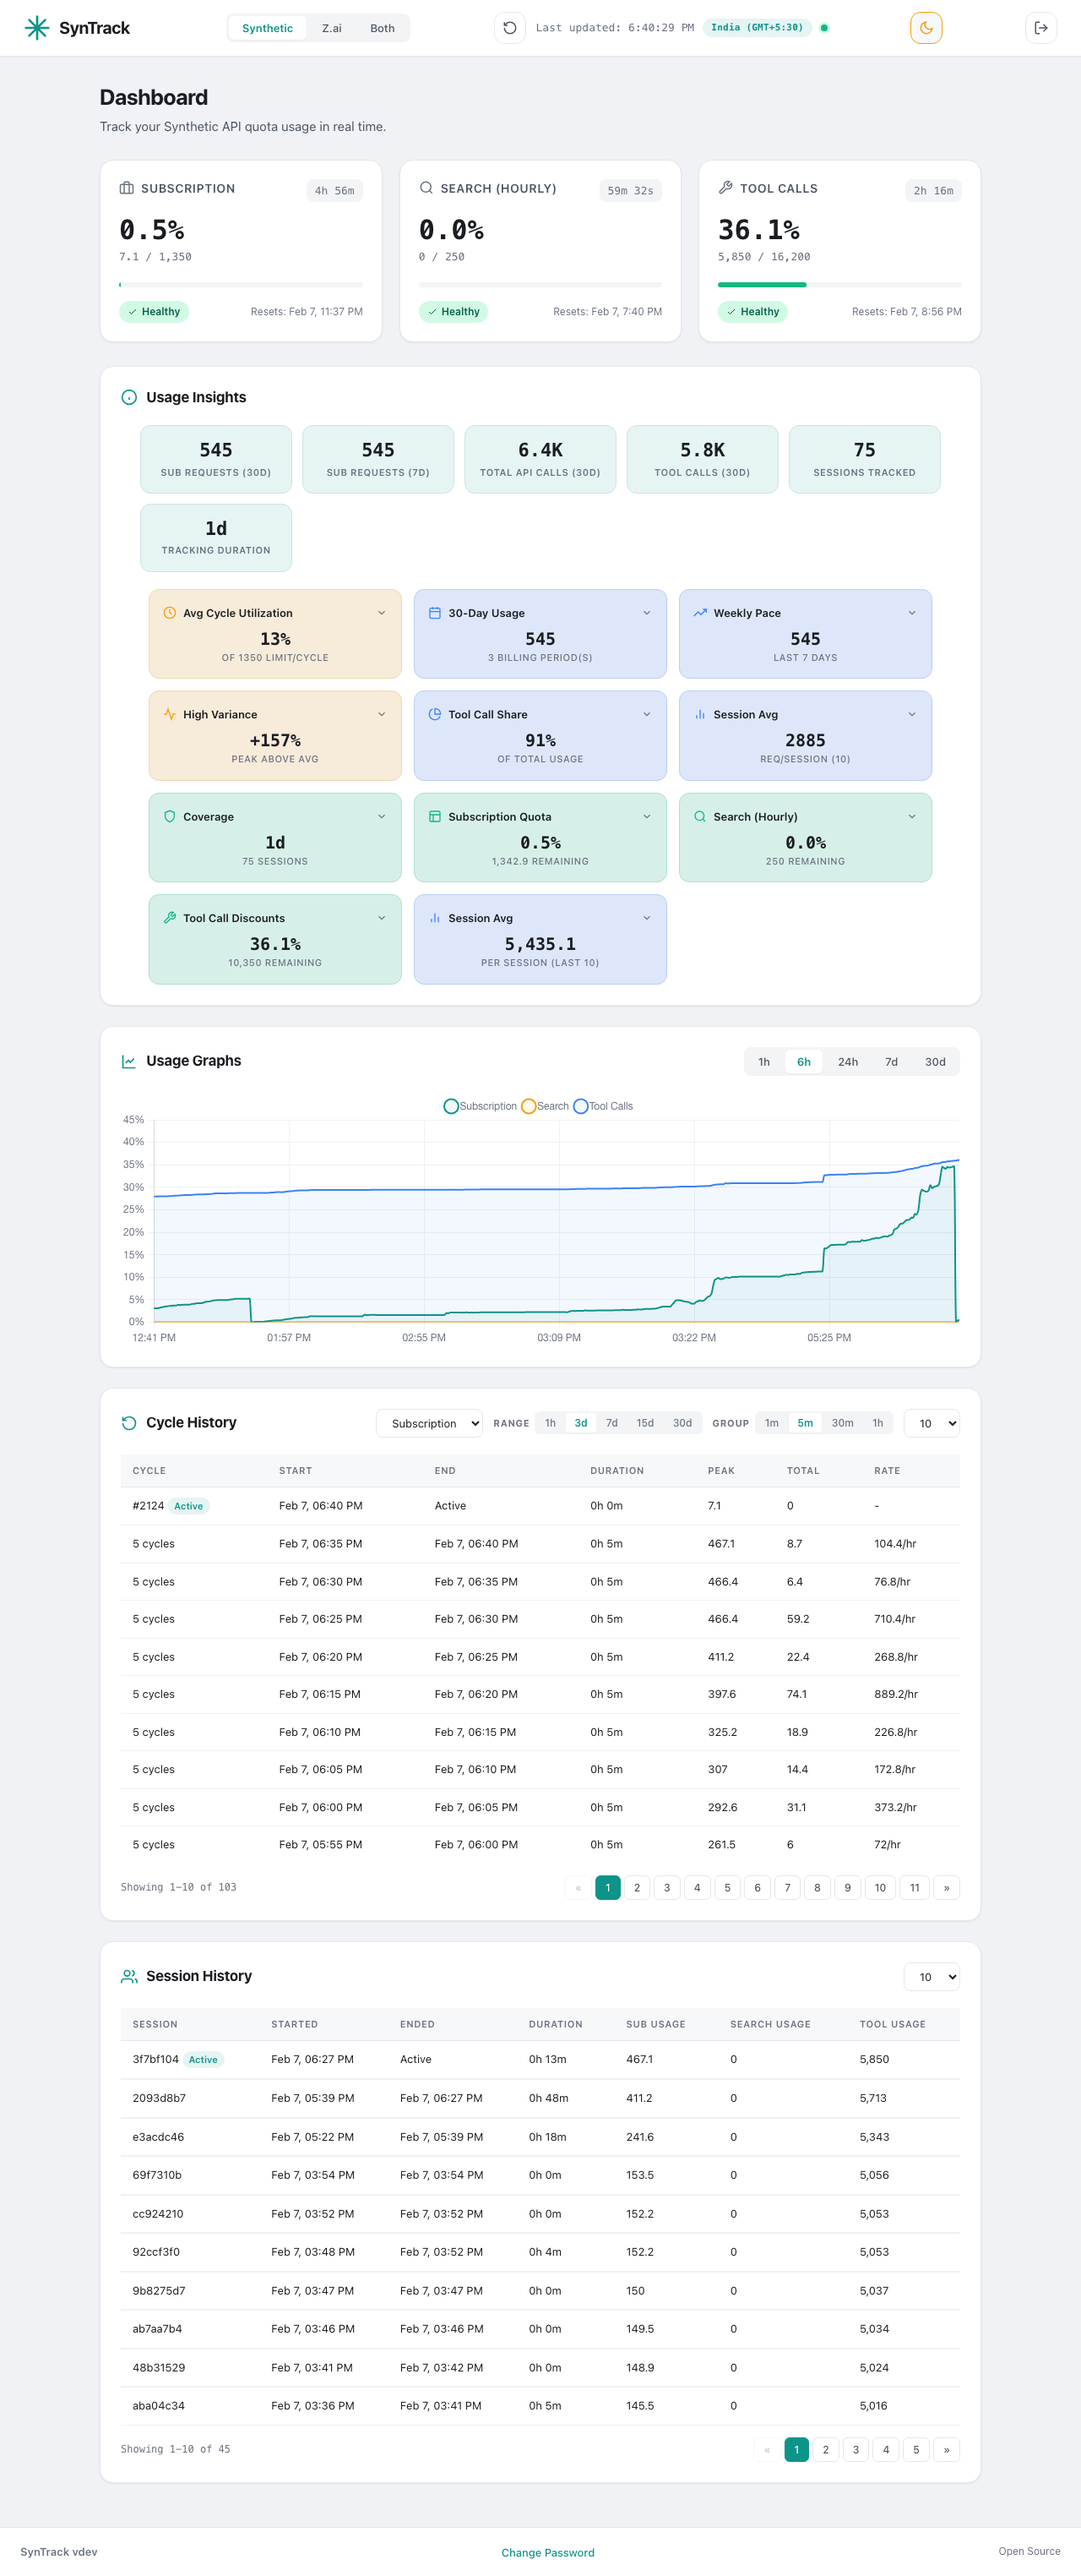
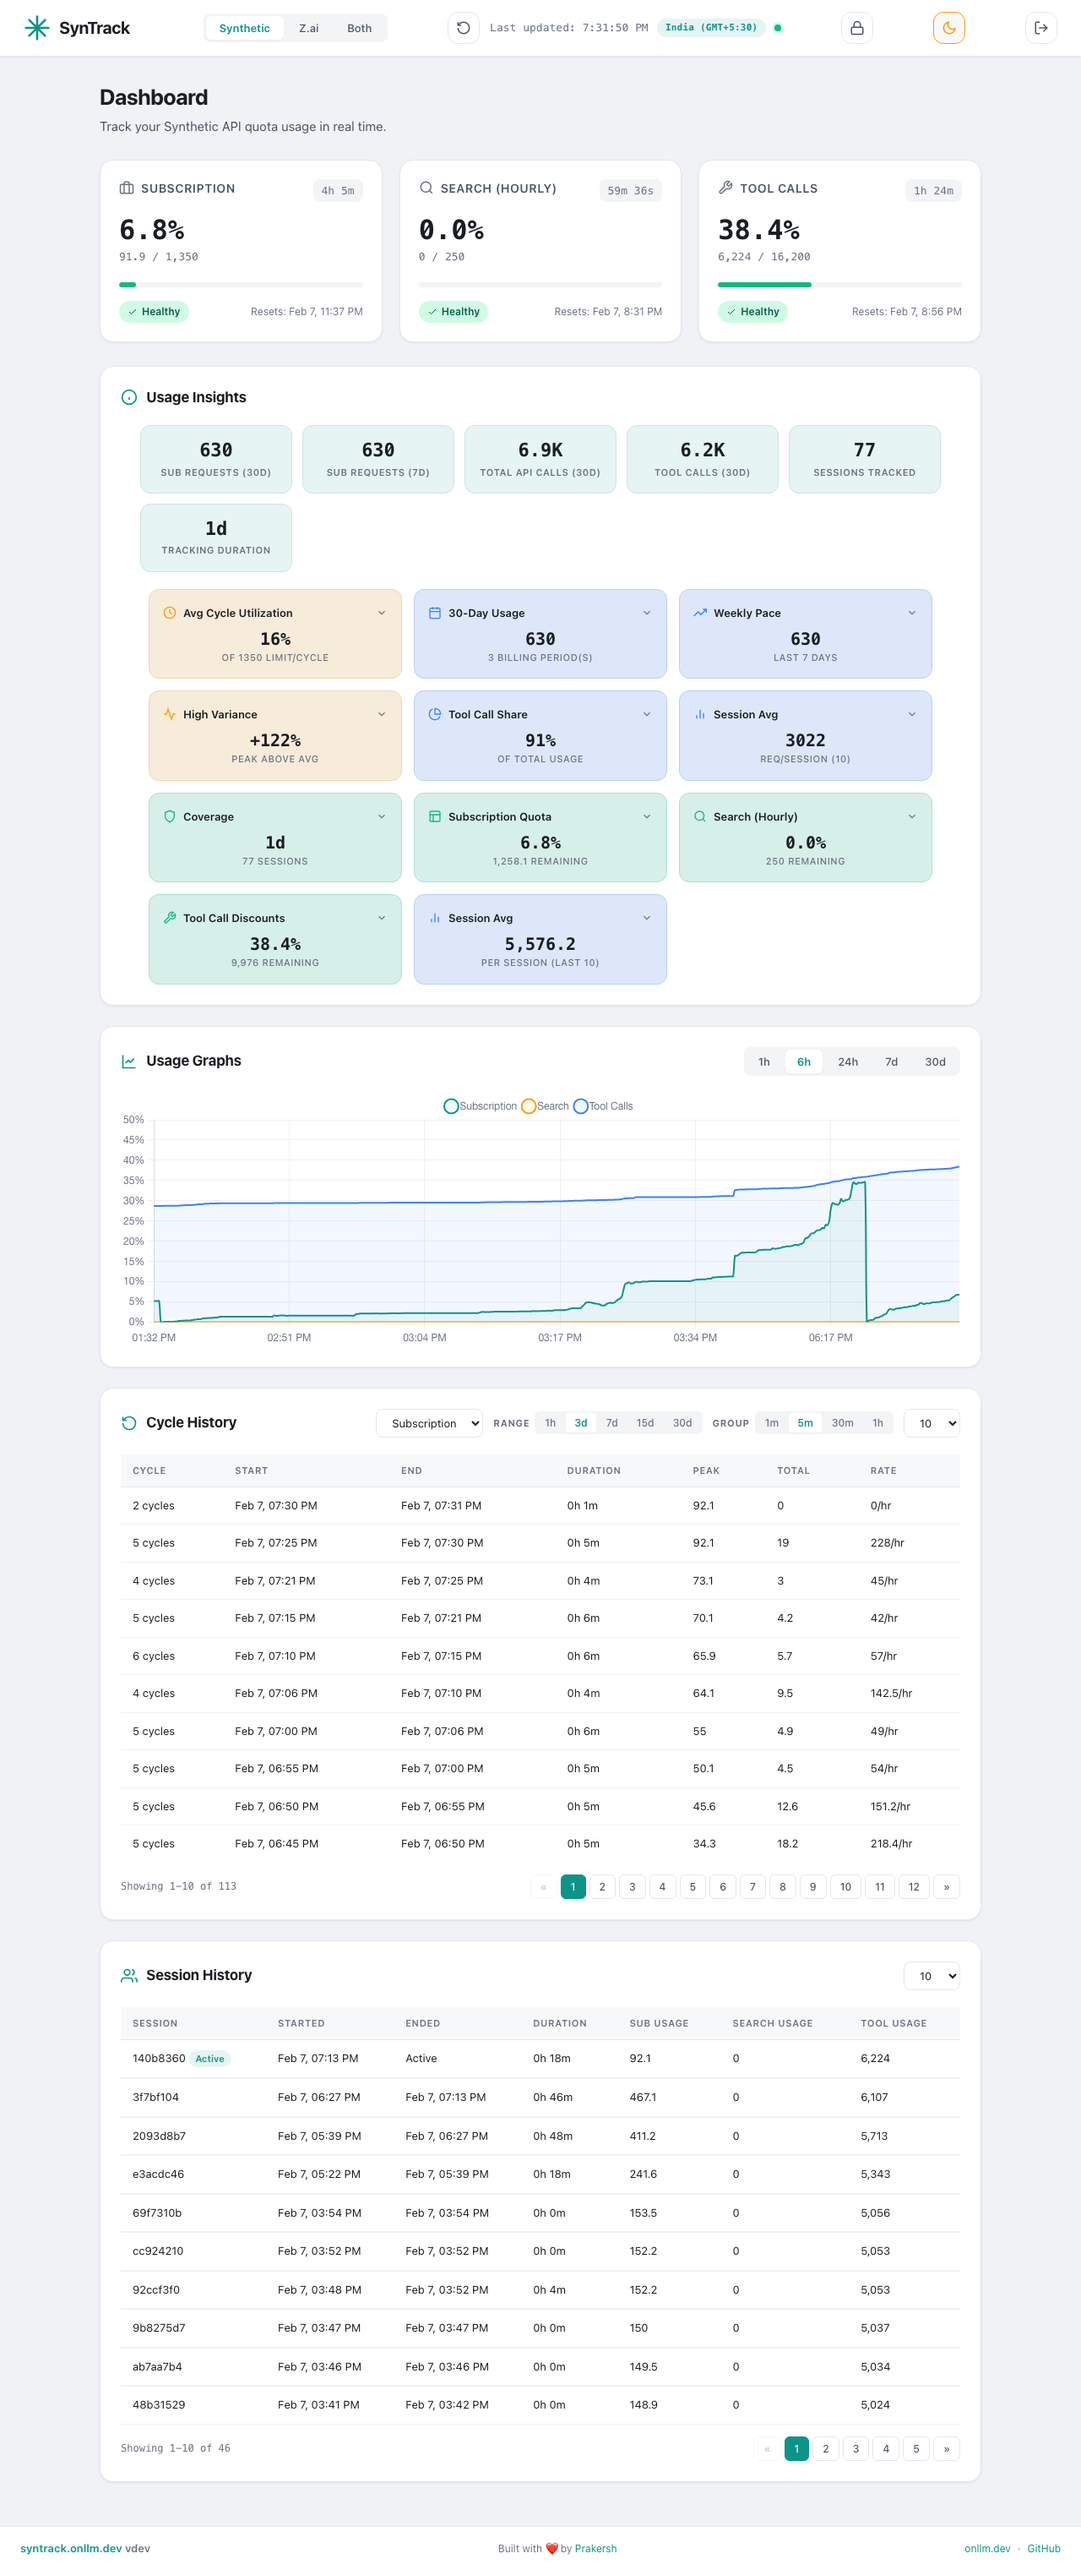
feat: move change password to header, update footer with links and attribution
- Move "Change Password" button from footer to header (lock icon)
- Footer now shows syntrack.onllm.dev, links to onllm.dev and GitHub
- Add "Built with ❤ by Prakersh" attribution in footer
- Bump version to 1.6.0
- Update all screenshots with new layout

diff --git a/internal/web/templates/dashboard.html b/internal/web/templates/dashboard.html
@@ -27,6 +27,9 @@
                 <span class="status-indicator" id="status-dot" aria-label="Connection status"></span>
             </div>
         </div>
+        <button class="header-btn" id="change-password-btn" aria-label="Change password" title="Change password">
+            <svg viewBox="0 0 24 24" fill="none" stroke="currentColor" stroke-width="2" stroke-linecap="round" stroke-linejoin="round"><rect x="3" y="11" width="18" height="11" rx="2" ry="2"/><path d="M7 11V7a5 5 0 0 1 10 0v4"/></svg>
+        </button>
         <button class="theme-toggle" id="theme-toggle" aria-label="Toggle theme">
             <svg class="icon-sun" viewBox="0 0 24 24" fill="none" stroke="currentColor" stroke-width="2">
                 <circle cx="12" cy="12" r="5"/>
@@ -469,11 +472,13 @@
 
     <footer class="app-footer">
         <div class="footer-content">
-            <span class="footer-brand">SynTrack v{{.Version}}</span>
-            <div class="footer-actions">
-                <button class="footer-btn" id="change-password-btn">Change Password</button>
+            <span class="footer-brand"><a href="https://syntrack.onllm.dev" class="footer-link" target="_blank" rel="noopener">syntrack.onllm.dev</a> v{{.Version}}</span>
+            <span class="footer-heart">Built with &#10084;&#65039; by <a href="https://prakersh.in" class="footer-link" target="_blank" rel="noopener">Prakersh</a></span>
+            <div class="footer-links">
+                <a href="https://onllm.dev" class="footer-link" target="_blank" rel="noopener">onllm.dev</a>
+                <span class="footer-sep">&#183;</span>
+                <a href="https://github.com/onllm-dev/syntrack" class="footer-link" target="_blank" rel="noopener">GitHub</a>
             </div>
-            <span class="footer-copy">Open Source</span>
         </div>
     </footer>
 </div>

diff --git a/internal/web/static/style.css b/internal/web/static/style.css
@@ -1559,24 +1559,30 @@ button, input, select { font-family: inherit; }
   color: var(--text-muted);
 }
 
-.footer-copy {
+.footer-heart {
   font-size: 12px;
   color: var(--text-muted);
 }
 
-.footer-btn {
-  background: none;
-  border: none;
-  color: var(--accent-teal);
-  font-size: 13px;
-  font-weight: 500;
-  cursor: pointer;
-  padding: 4px 8px;
-  border-radius: var(--radius-sm);
-  transition: background var(--transition-fast);
+.footer-links {
+  display: flex;
+  align-items: center;
+  gap: 8px;
+  font-size: 12px;
 }
-.footer-btn:hover {
-  background: var(--accent-teal-muted);
+
+.footer-sep {
+  color: var(--text-muted);
+}
+
+.footer-link {
+  color: var(--accent-teal);
+  text-decoration: none;
+  transition: opacity var(--transition-fast);
+}
+.footer-link:hover {
+  opacity: 0.8;
+  text-decoration: underline;
 }
 
 /* ═══════════════════════════════════════════

diff --git a/static/style.css b/static/style.css
@@ -1559,24 +1559,30 @@ button, input, select { font-family: inherit; }
   color: var(--text-muted);
 }
 
-.footer-copy {
+.footer-heart {
   font-size: 12px;
   color: var(--text-muted);
 }
 
-.footer-btn {
-  background: none;
-  border: none;
-  color: var(--accent-teal);
-  font-size: 13px;
-  font-weight: 500;
-  cursor: pointer;
-  padding: 4px 8px;
-  border-radius: var(--radius-sm);
-  transition: background var(--transition-fast);
+.footer-links {
+  display: flex;
+  align-items: center;
+  gap: 8px;
+  font-size: 12px;
 }
-.footer-btn:hover {
-  background: var(--accent-teal-muted);
+
+.footer-sep {
+  color: var(--text-muted);
+}
+
+.footer-link {
+  color: var(--accent-teal);
+  text-decoration: none;
+  transition: opacity var(--transition-fast);
+}
+.footer-link:hover {
+  opacity: 0.8;
+  text-decoration: underline;
 }
 
 /* ═══════════════════════════════════════════
